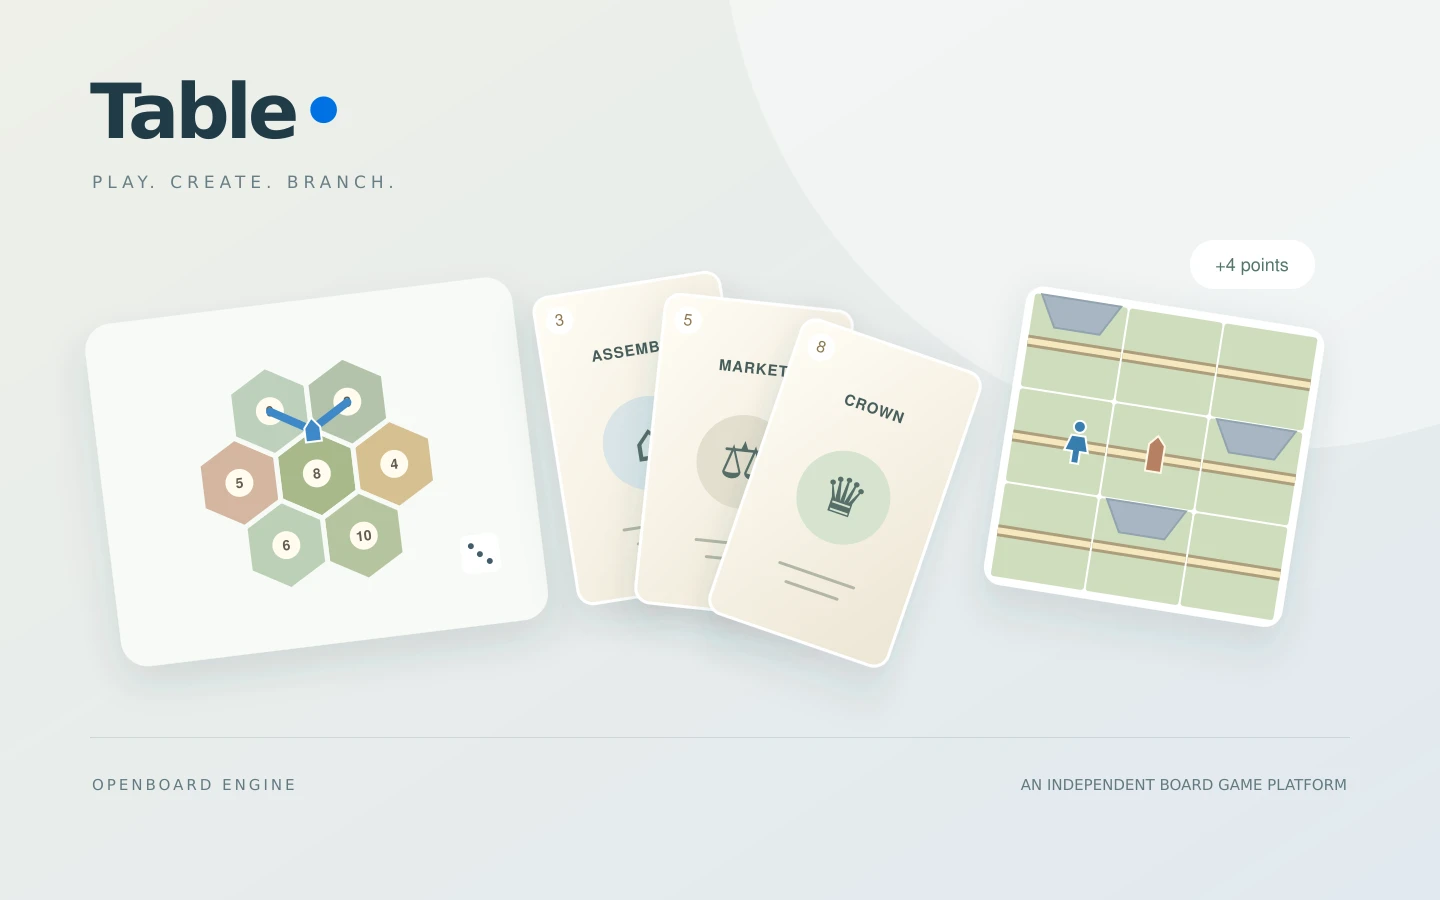
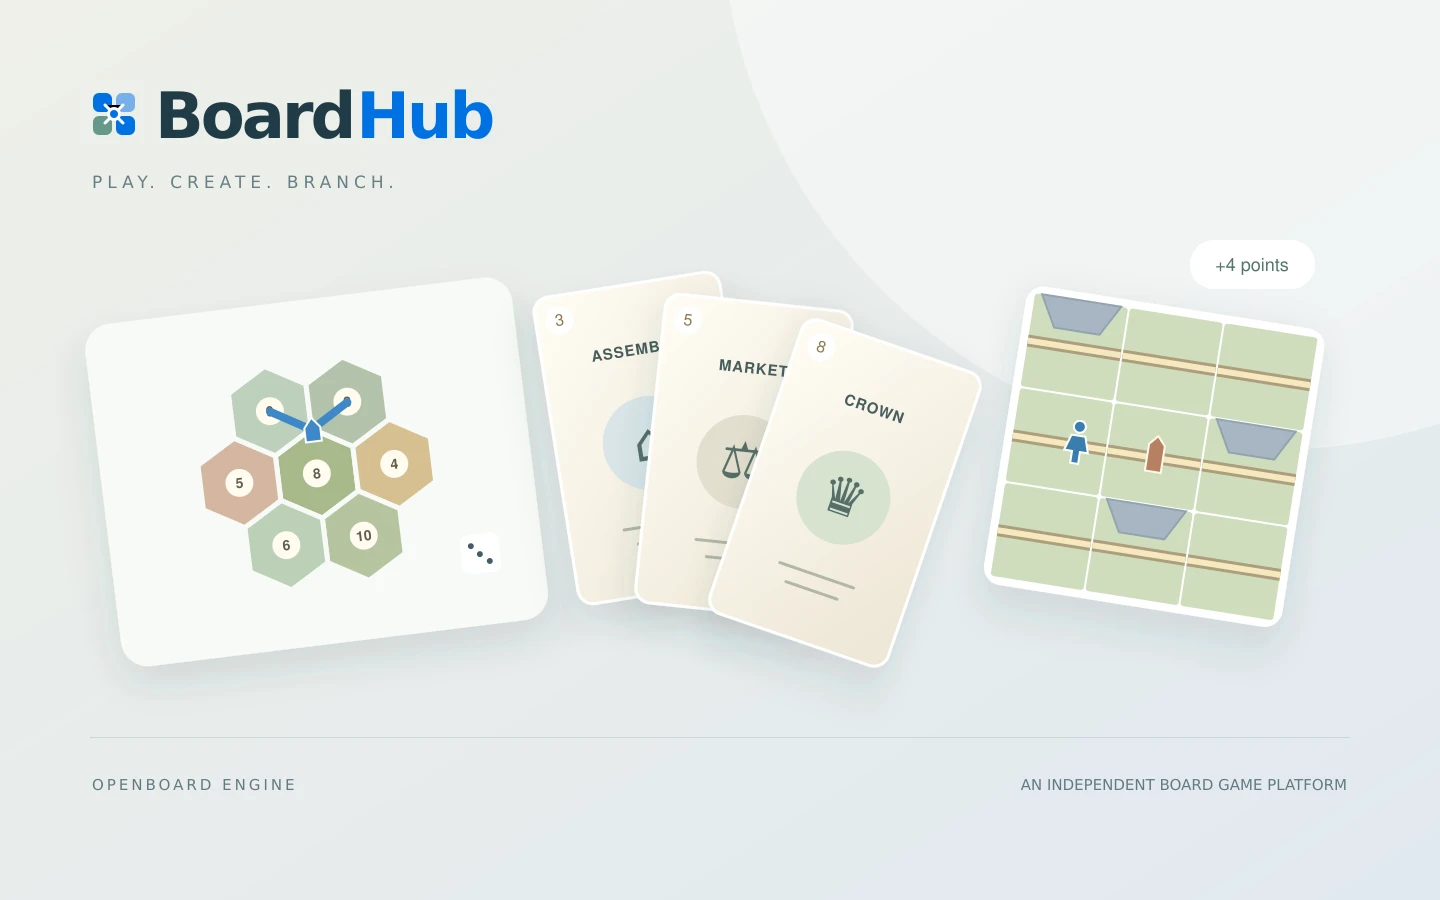
Rename Table portfolio project to BoardHub and refresh its artwork

Changed region(s): [[0.0625, 0.0933, 0.3438, 0.1556]]

diff --git a/src/app/apps/page.tsx b/src/app/apps/page.tsx
@@ -19,8 +19,8 @@ interface App {
 
 const apps: App[] = [
   {
-    name: 'Table — ボードゲームを育てる場所',
-    description: 'ボードゲームを遊び、AIとルールを育てる。CPU・友人対戦、チュートリアル、ブランチでの試遊を備えた開発中のプラットフォーム。',
+    name: 'BoardHub',
+    description: 'ボードゲームを見つけて、友人と遊ぶ。お気に入り、AIとのルール改善、ブランチでの試遊をつなぐ、遊びと開発のプラットフォーム。',
     imageUrl: '/images/portfolio/openboard-table.webp',
     bgColor: '#e8eeeb',
     workId: 'openboard-table',
